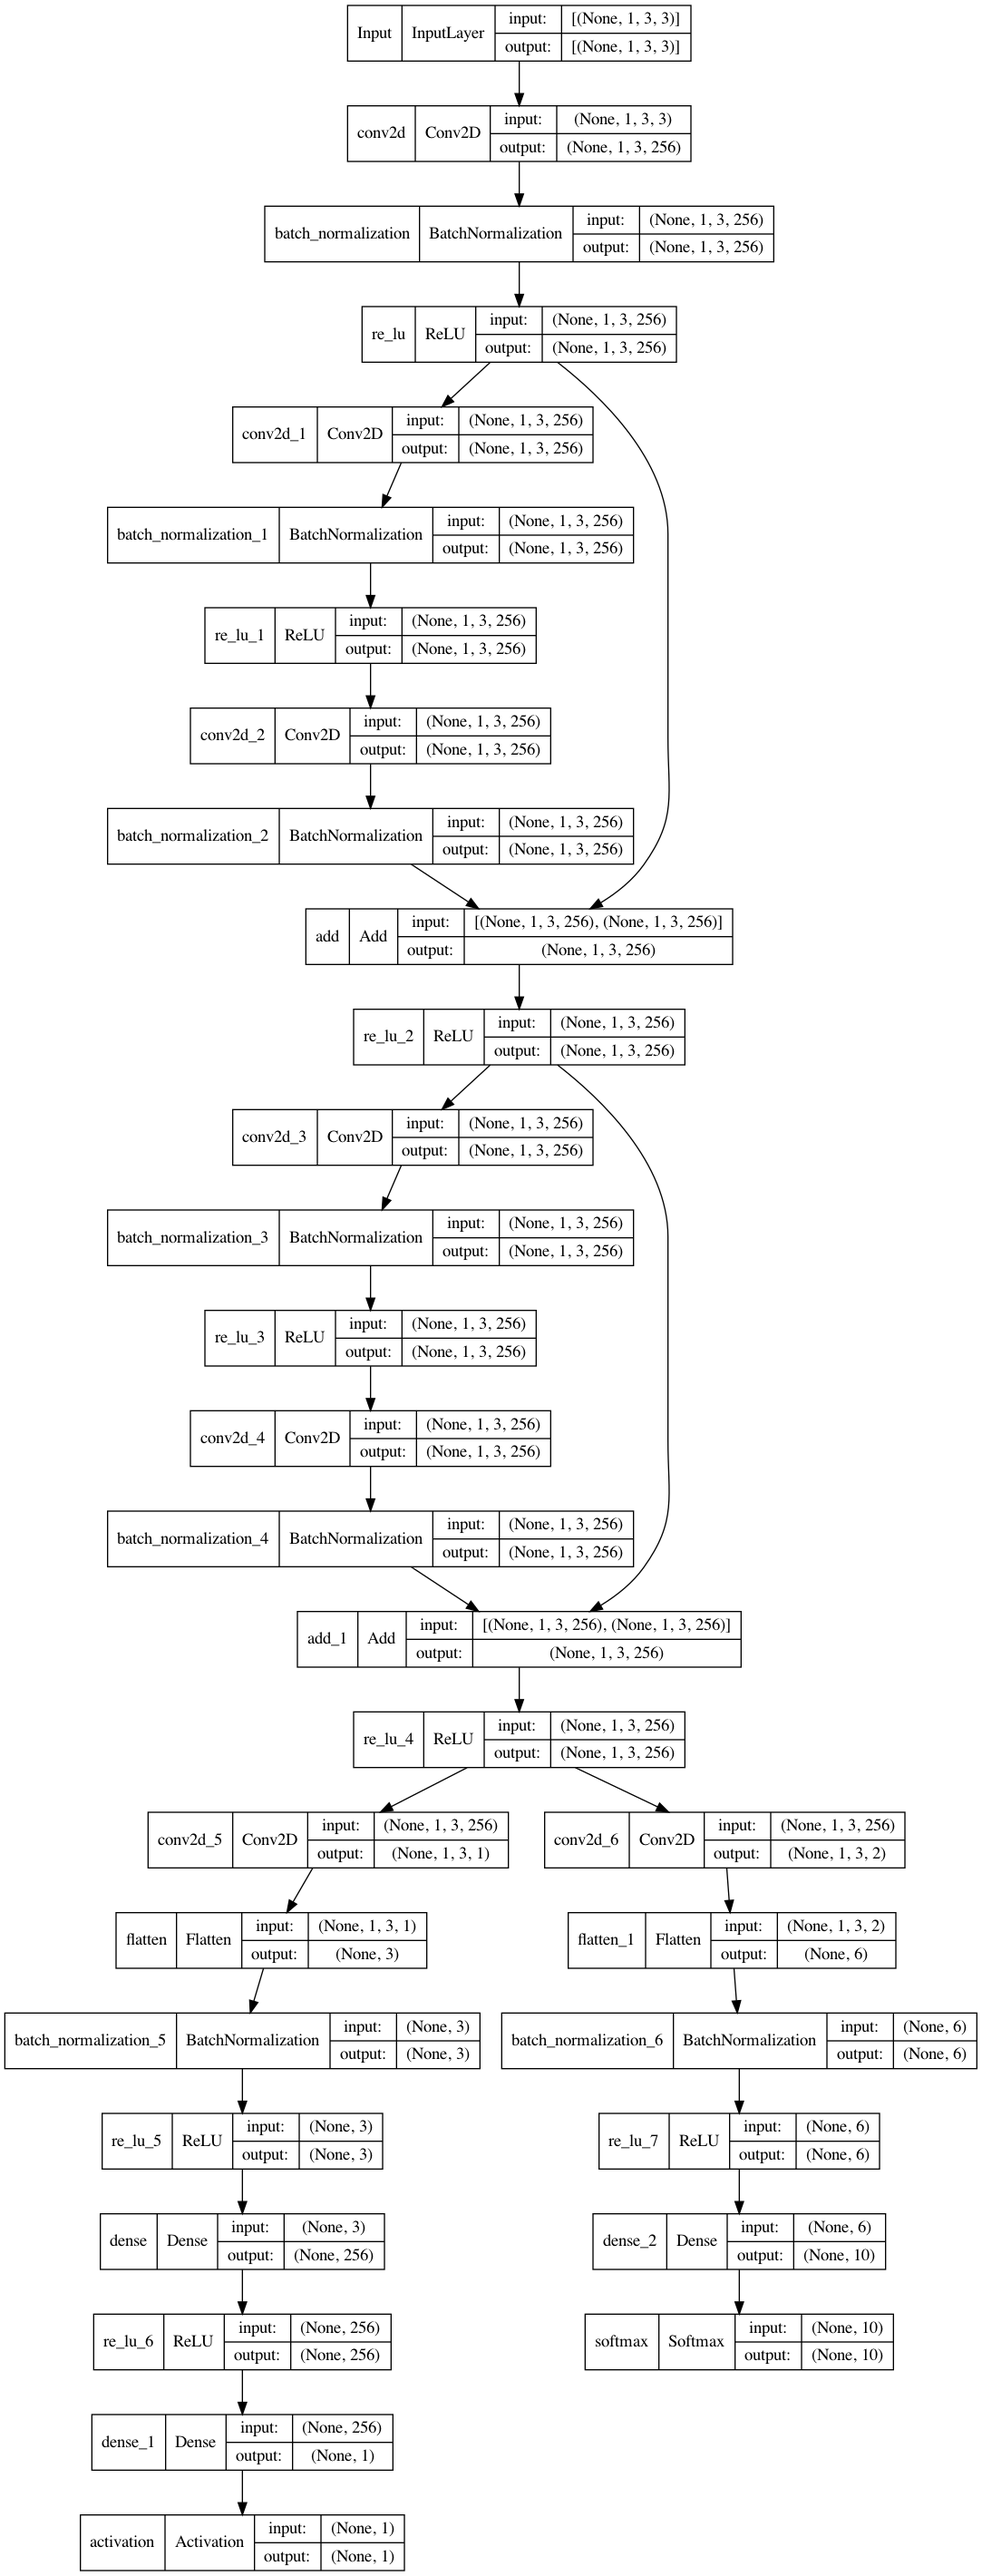
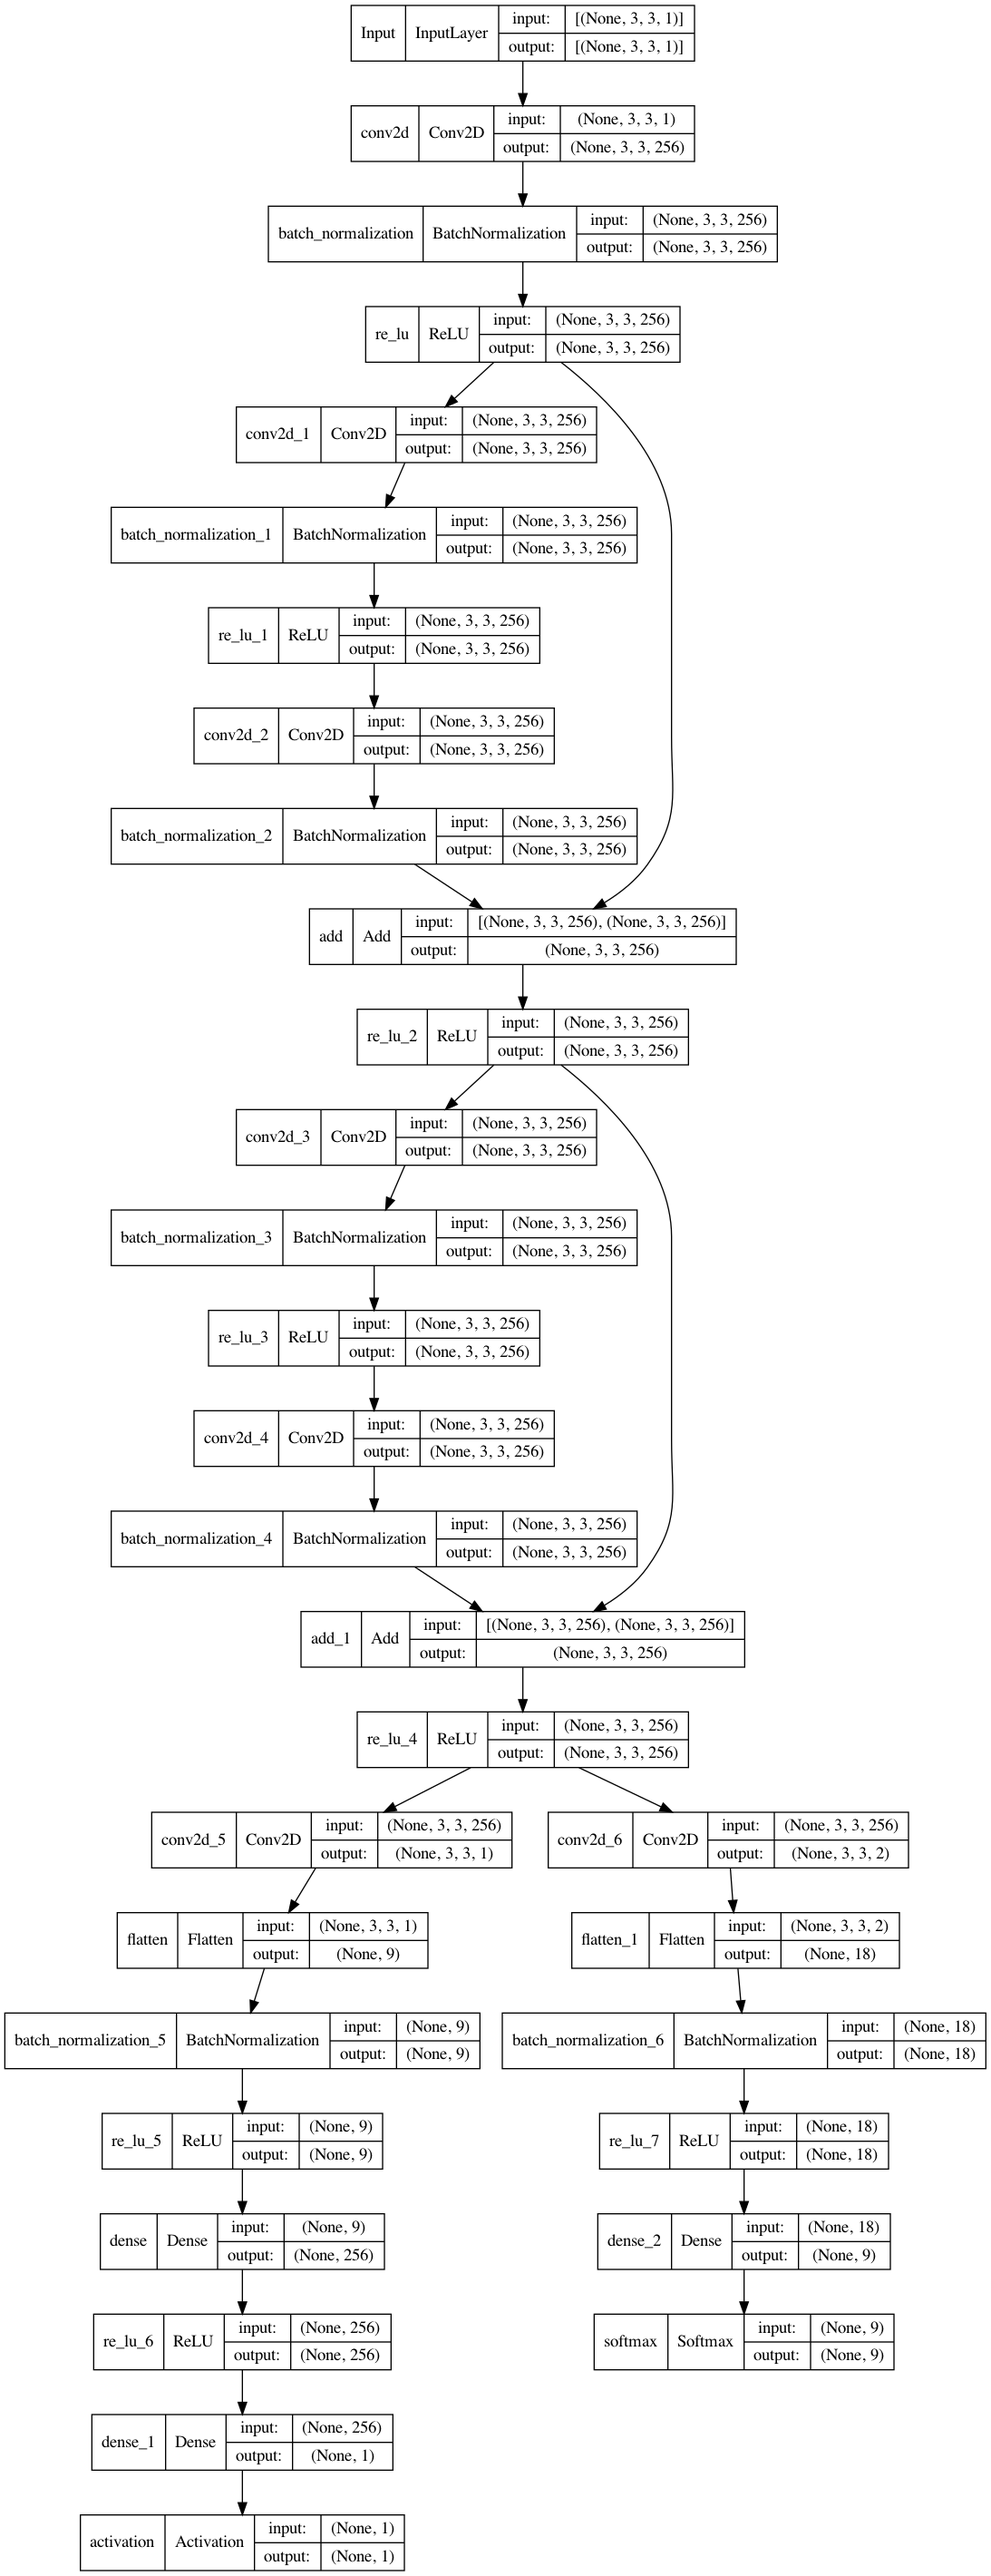
Finished alphazeroplayer

diff --git a/alphazero.py b/alphazero.py
@@ -1,3 +1,4 @@
+import math
 import tensorflow as tf
 from tensorflow.keras import layers
 import numpy as np
@@ -32,7 +33,7 @@ def alphazero_model(input_shape, output_shape):
 
     # Value head
     v = layers.Conv2D(1, (1,1), padding='same')(x)
-    #v = layers.Flatten()(v)
+    v = layers.Flatten()(v)
     v = layers.BatchNormalization()(v)
     v = layers.ReLU()(v)
     v = layers.Dense(256)(v)
@@ -50,22 +51,35 @@ def alphazero_model(input_shape, output_shape):
 
     return tf.keras.Model(input_layer, [value_output, policy_output])
 
-model = alphazero_model((1,3,3,), 9)
-#print("Prediction: ", model.predict(np.array([[[[0,0,0],[0,1,0],[0,0,-1]]]])))
-print(model(np.random.rand(1,1,3,3)))
+# model = alphazero_model((3,3,1,), 9)
+# res = model(np.random.rand(1,3,3,1))
+# print(1 + res)
+# print(res[1][0][0])
 
-#model.summary()
-#tf.keras.utils.plot_model(model, "AlphaZero.png", show_shapes=True)
+# model.summary()
+# tf.keras.utils.plot_model(model, "AlphaZero.png", show_shapes=True)
 
 class AlphaZeroPlayer(MCTSPlayer):
-    def __init__(self, name, game):
-        super.__init__()
-        model = alphazero_model((1,3,3), 10)
+    def __init__(self, name, game, sim_count=100):
+        super().__init__(name, game, sim_count)
+        self.model = alphazero_model((3,3,1), 9)
 
     def rollout(self, node):
         ## Performs rollout. Simulates game from current state
-        sim_result = self.model(np.array(node['board']).reshape(1,1,3,3))
+        g = self.game(node['state'])
+        if g.is_game_over():
+            return g.result
+
+        sim_result = self.model(node['state']['board'].reshape(1,3,3,1))[0][0][0]/2 + 0.5
         return sim_result
+
+    def calc_uct(self, node):
+        ## Calculates UCT of a node
+
+        if node['visits'] == 0:
+            return math.inf
+        return node['wins']/node['visits'] + math.sqrt(2) * node['prior'] * math.sqrt(node['parent']['visits'])/(1+node['visits'])
+
 
     def backpropogate(self, node, sim_result):
         # Saves all of the win and visit information down the tree path
@@ -76,10 +90,8 @@ class AlphaZeroPlayer(MCTSPlayer):
                 break
             
             node = node['parent']
-            if sim_result == 1:
-                sim_result = 0
-            elif sim_result == 0:
-                sim_result = 1
+
+            sim_result = 1-sim_result
 
     def expand_children(self, node):
         ## Expands the children of a leaf node based on valid moves from that state
@@ -88,10 +100,10 @@ class AlphaZeroPlayer(MCTSPlayer):
             return
 
         valid_moves = self.game.get_valid_moves(node['state']['board'])
+        priors = self.model(node['state']['board'].reshape(1,3,3,1))[1][0].numpy().reshape(3,3)
 
         for move in valid_moves:
             g = self.game(node['state'])
             g.update_game_state(move)
             next_state = g.get_game_state()
-            node['children'].append({'wins': 0, 'visits': 0, 'move': move, 'state': next_state, 'children': [], 'parent': node})
-
+            node['children'].append({'wins': 0, 'visits': 0, 'prior': priors[move], 'move': move, 'state': next_state, 'children': [], 'parent': node})

diff --git a/tictactoe.py b/tictactoe.py
@@ -2,6 +2,7 @@ import numpy as np
 from typing import List
 from game import Player, TurnBasedGame
 from mctsplayer import MCTSPlayer
+from alphazero import AlphaZeroPlayer
 
 class TicTacToe(TurnBasedGame):
     def __init__(self, game_state = None):
@@ -136,7 +137,7 @@ def main2():
         print()
 
 def main3():
-    agent = MCTSPlayer('p', TicTacToe, 100)
+    agent = AlphaZeroPlayer('p', TicTacToe, 10)
     agent.is_saving_data = True
     t = TicTacToe()
     t.init_players([agent, agent])
